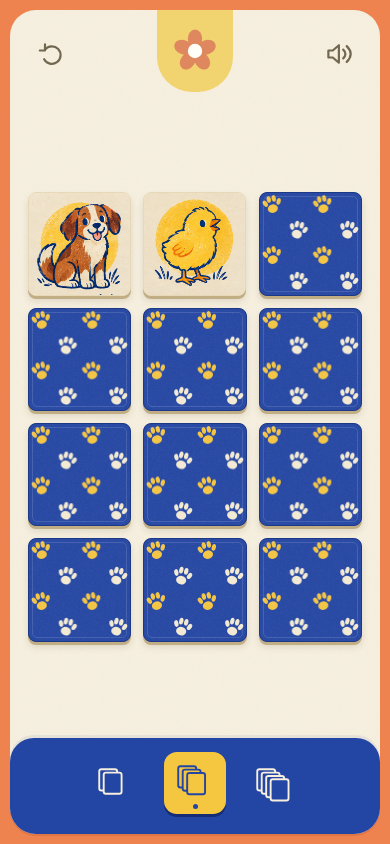
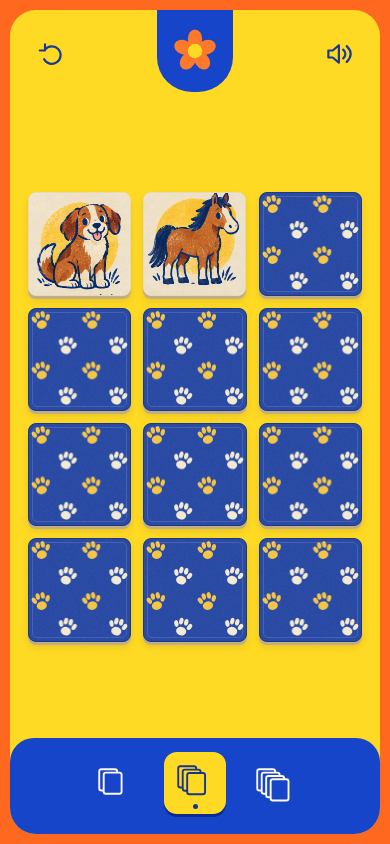
Brighten play board with vivid yellow orange and blue

diff --git a/style.css b/style.css
@@ -3,3 +3,5 @@
 /* A framed play mat, with controls grouped by purpose. */
 body{background:#ded0ad}main{max-width:520px;background:#ef8350;padding:10px;min-height:100dvh}.game{position:relative;min-height:calc(100dvh - 20px);padding:0 18px;border-radius:26px;background-color:#f7f0df;overflow:hidden;display:grid;grid-template-rows:96px minmax(0,1fr) 106px;gap:10px;box-shadow:0 2px 0 #b64f2b44}.game-toolbar{align-self:start;display:flex;flex-direction:row;justify-content:space-between;align-items:center;margin:0;padding-top:20px;position:relative;gap:12px}.logo-tab{width:76px;height:82px;display:flex;justify-content:center;align-items:center;background:#f1d36f;border-radius:0 0 35px 35px;position:absolute;left:50%;top:0;transform:translateX(-50%)}.game-toolbar .game-logo{width:46px;height:46px;flex:none}.tool-button,#restart{width:48px;height:48px;display:flex;align-items:center;justify-content:center;border:0;background:transparent;box-shadow:none;padding:10px;border-radius:14px;color:#72674f}.tool-button:hover,#restart:hover{background:#eadfc6}.tool-button svg,#restart svg,#close-dialog svg{width:28px;height:28px;fill:none;stroke:currentColor;stroke-width:2.5;stroke-linecap:round;stroke-linejoin:round}.sound-slash{display:none}#sound[aria-pressed=false] .sound-waves{display:none}#sound[aria-pressed=false] .sound-slash{display:block}.board,.board.large,.board.mini{align-self:center;width:100%;max-width:none;margin:0;gap:12px}.board.large{gap:9px}.game-footer{align-self:end;display:flex;justify-content:center;align-items:center;height:96px;margin:0 -18px;background:#2345a3;border-radius:24px 24px 0 0;box-shadow:0 -3px 0 #19357f12}.levels{display:flex;flex-direction:row;gap:17px;border:0;padding:0;background:none;border-radius:0}.levels button{position:relative;width:62px;height:62px;border:0;border-radius:13px;background:transparent;color:#f7f0df;box-shadow:none;transition:background .15s,transform .15s}.levels button.active{background:#f5c640;color:#2345a3;box-shadow:0 3px 0 #142c75;transform:translateY(-3px)}.levels button:not(.active):hover{background:#ffffff16}.level-stack{width:38px;height:38px;fill:#2345a3;stroke:currentColor;stroke-width:1.7}.levels button.active .level-stack{fill:#f5c640}.levels button.active:after{content:'';position:absolute;width:5px;height:5px;background:#2345a3;border-radius:50%;bottom:5px;left:calc(50% - 2.5px)}dialog{border:0;border-radius:24px;box-shadow:0 6px 0 #d0b68a}.victory-icon{width:110px;height:110px;margin:0 auto 22px}.victory-icon svg{width:100%;height:100%}#again,#close-dialog{border:0;border-radius:16px;box-shadow:0 3px 0 #c2ae85}#close-dialog{background:#e6dcc5}@media(max-height:650px){main{padding:7px}.game{min-height:calc(100dvh - 14px);padding:0 14px;border-radius:20px;grid-template-rows:72px minmax(0,1fr) 82px;gap:8px}.game-toolbar{padding-top:10px;margin:0}.logo-tab{height:66px;width:66px}.game-toolbar .game-logo{width:38px;height:38px}.game-footer{height:76px;margin:0 -14px;border-radius:20px 20px 0 0}.levels button{width:55px;height:54px}.level-stack{width:32px;height:32px}.board{max-width:320px;justify-self:center;gap:9px}.board.large{max-width:280px}}@media(orientation:landscape) and (max-height:550px){main{max-width:none;padding:8px}.game{min-height:calc(100dvh - 16px);padding:14px;grid-template-columns:64px minmax(0,1fr) 78px;grid-template-rows:1fr;gap:18px}.game-toolbar{align-self:stretch;flex-direction:column;justify-content:space-between;padding:0;margin:0}.logo-tab{position:static;transform:none;width:56px;height:66px;order:-1;border-radius:20px}.game-toolbar .game-logo{width:38px;height:38px}.board,.board.large,.board.mini{max-width:640px;justify-self:center;gap:8px;grid-template-columns:repeat(6,minmax(0,1fr))}.board.large{grid-template-columns:repeat(7,minmax(0,1fr))}.board.mini{max-width:400px;grid-template-columns:repeat(3,minmax(0,1fr))}.game-footer{align-self:stretch;height:auto;margin:-14px -14px -14px 0;border-radius:20px 0 0 20px}.levels{flex-direction:column;gap:10px}.levels button{width:54px;height:54px}}@supports(padding:max(0px)){main{padding-top:max(10px,env(safe-area-inset-top));padding-bottom:max(10px,env(safe-area-inset-bottom))}.game{min-height:calc(100dvh - max(10px,env(safe-area-inset-top)) - max(10px,env(safe-area-inset-bottom)))}}
 @media(orientation:portrait){.game{height:calc(100dvh - max(10px,env(safe-area-inset-top)) - max(10px,env(safe-area-inset-bottom)))}.board{justify-self:center;width:min(100%,calc((100dvh - 270px)*.75))}.board.mini{width:100%}.board.large{width:min(100%,calc((100dvh - 280px)*.8))}}@media(orientation:portrait) and (max-height:650px){.board{width:min(100%,calc((100dvh - 210px)*.75))}.board.mini{width:100%}.board.large{width:min(100%,calc((100dvh - 220px)*.8))}}
+/* Bright toy-box colours; the illustrated cards retain their printed palette. */
+body{background:#1645c9}main{background:#ff681f}.game{background-color:#ffda24;background-image:none;box-shadow:none}.logo-tab{background:#1645c9}.tool-button,#restart{color:#193994}.tool-button:hover,#restart:hover{background:#f4bd12}.game-footer{background:#1645c9;box-shadow:none}.levels button{color:#fff9e8}.levels button.active{background:#ffda24;color:#16358e;box-shadow:0 3px 0 #0b2b91}.level-stack{fill:#1645c9}.levels button.active .level-stack{fill:#ffda24}.levels button.active:after{background:#16358e}dialog{background:#ffda24;box-shadow:0 6px 0 #e8a710}#again{background:#1645c9;color:#fff9e8;box-shadow:0 3px 0 #0b2b91}#close-dialog{background:#ff892f;color:#16358e;box-shadow:0 3px 0 #dc6419}

diff --git a/index.html b/index.html
@@ -1,6 +1,6 @@
 <!doctype html>
 <html lang="de">
-<head><meta charset="utf-8"><meta name="viewport" content="width=device-width,initial-scale=1,viewport-fit=cover"><meta name="theme-color" content="#ef8350"><meta name="apple-mobile-web-app-capable" content="yes"><title>Tierfreunde · Memory</title><link rel="icon" type="image/svg+xml" href="assets/logo.svg"><link rel="stylesheet" href="style.css"></head>
+<head><meta charset="utf-8"><meta name="viewport" content="width=device-width,initial-scale=1,viewport-fit=cover"><meta name="theme-color" content="#ff681f"><meta name="apple-mobile-web-app-capable" content="yes"><title>Tierfreunde · Memory</title><link rel="icon" type="image/svg+xml" href="assets/logo.svg"><link rel="stylesheet" href="style.css"></head>
 <body>
 <main>
 <section class="game" aria-label="Memory-Spiel">
